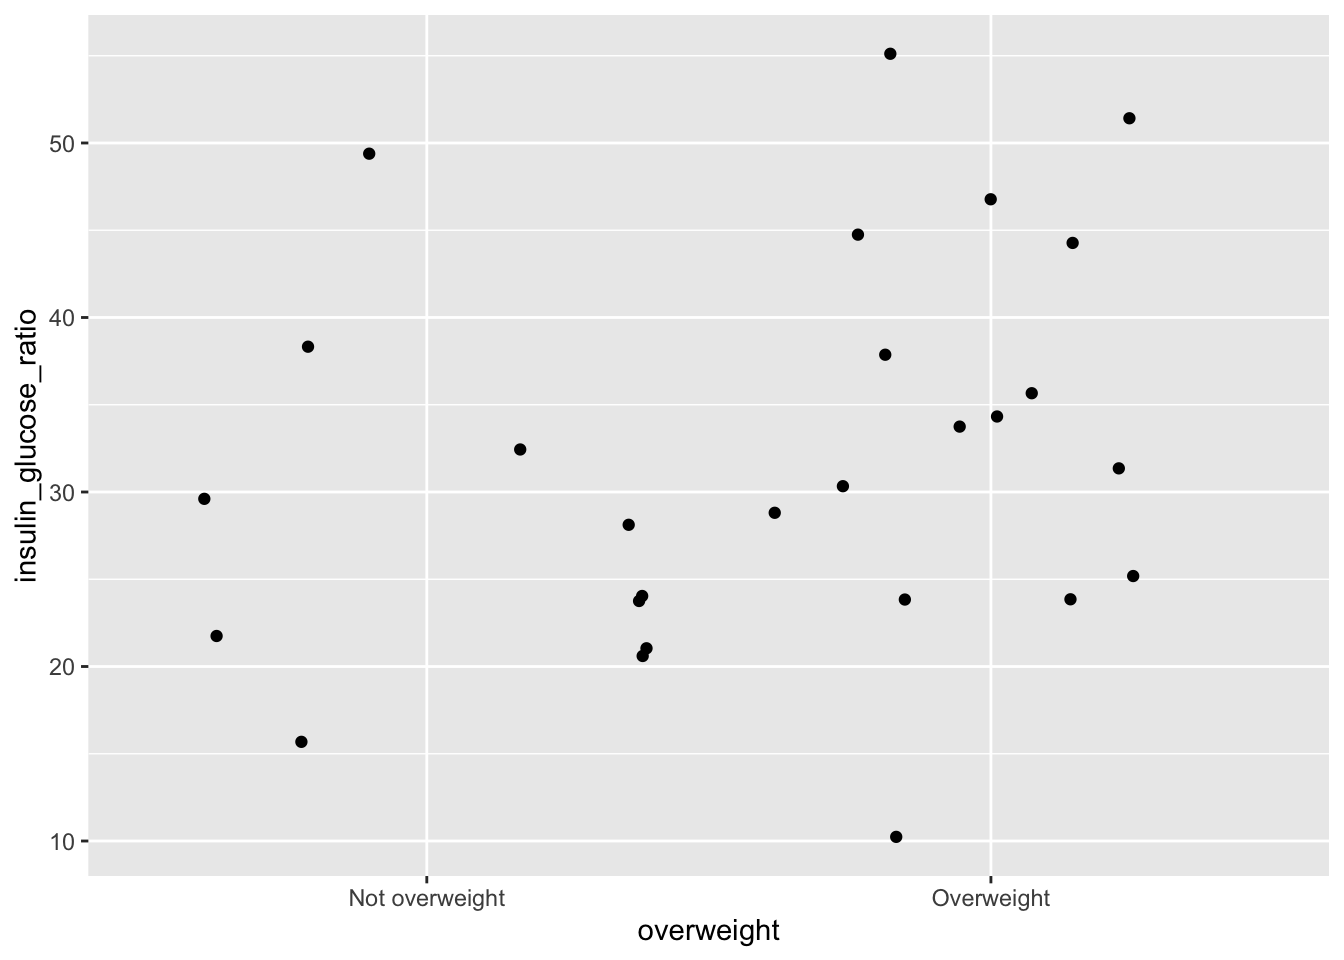
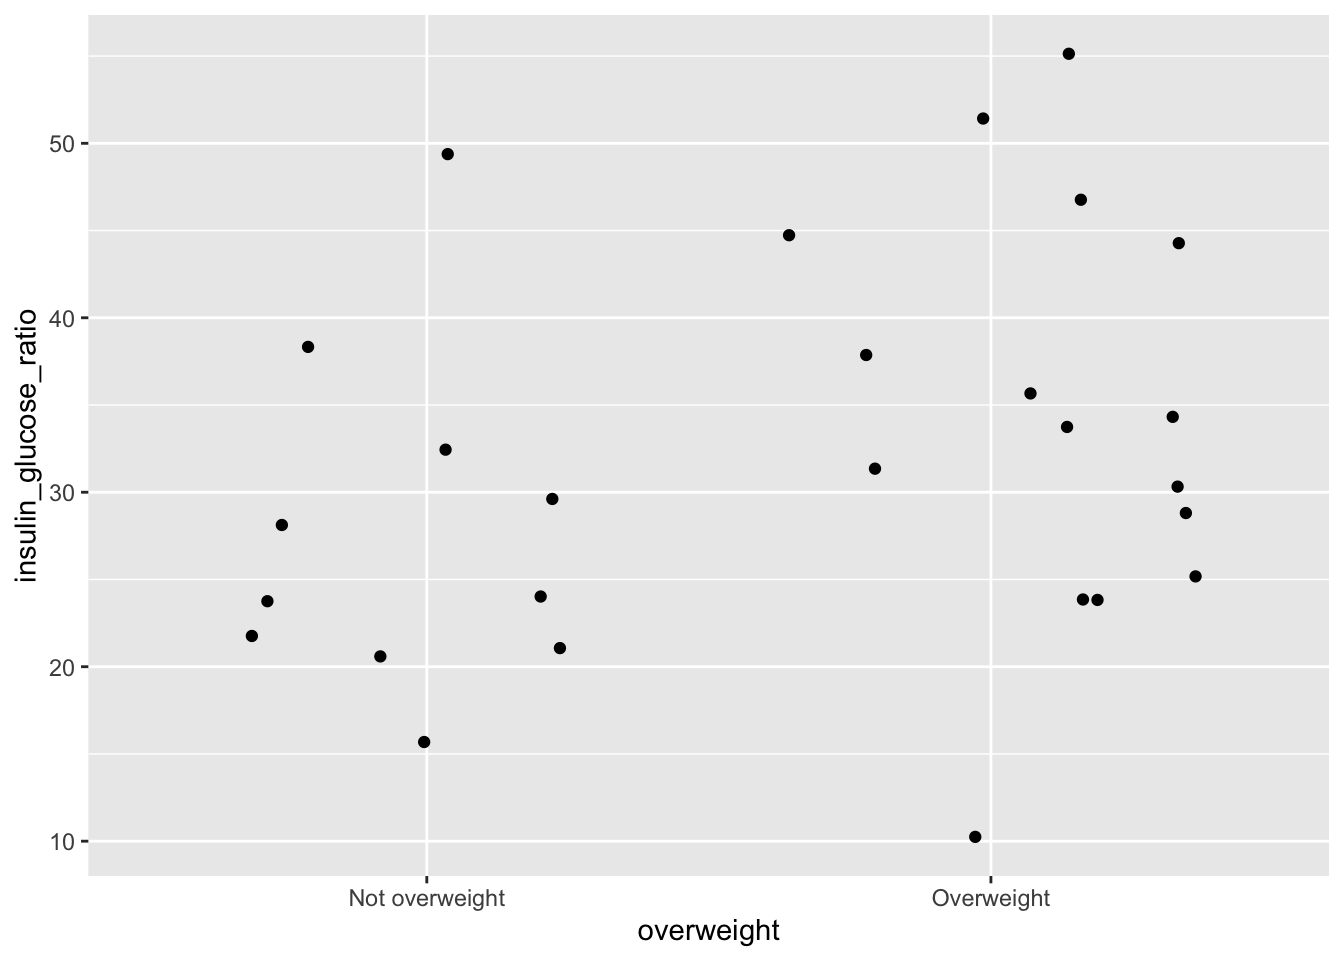
Adding multidimensional plots

diff --git a/docs/Learning.html b/docs/Learning.html
@@ -899,6 +899,64 @@ Figure&nbsp;4: BMI and area under the curve
 </div>
 </div>
 </section>
+<section id="multidimesional-plots" class="level2">
+<h2 class="anchored" data-anchor-id="multidimesional-plots">Multidimesional plots</h2>
+<div class="sourceCode cell-code" id="cb56"><pre class="sourceCode r code-with-copy"><code class="sourceCode r"><span id="cb56-1"><a href="#cb56-1" aria-hidden="true" tabindex="-1"></a>post_meal_data <span class="sc">%&gt;%</span></span>
+<span id="cb56-2"><a href="#cb56-2" aria-hidden="true" tabindex="-1"></a>  <span class="fu">mutate</span>(</span>
+<span id="cb56-3"><a href="#cb56-3" aria-hidden="true" tabindex="-1"></a>    <span class="at">percent_body_fat =</span> (Fat.mass.DXA <span class="sc">/</span> Weight) <span class="sc">*</span> <span class="dv">100</span>,</span>
+<span id="cb56-4"><a href="#cb56-4" aria-hidden="true" tabindex="-1"></a>    <span class="at">young =</span> <span class="fu">if_else</span>(Age <span class="sc">&lt;</span> <span class="dv">40</span>, <span class="st">"Young"</span>, <span class="st">"Old"</span>)</span>
+<span id="cb56-5"><a href="#cb56-5" aria-hidden="true" tabindex="-1"></a>  ) <span class="sc">%&gt;%</span></span>
+<span id="cb56-6"><a href="#cb56-6" aria-hidden="true" tabindex="-1"></a>  <span class="fu">ggplot</span>(<span class="fu">aes</span>(<span class="at">x =</span> Group, <span class="at">y =</span> percent_body_fat, <span class="at">colour =</span> young)) <span class="sc">+</span></span>
+<span id="cb56-7"><a href="#cb56-7" aria-hidden="true" tabindex="-1"></a>  <span class="fu">geom_jitter</span>(<span class="at">width =</span> <span class="fl">0.2</span>)</span>
+<span id="cb56-8"><a href="#cb56-8" aria-hidden="true" tabindex="-1"></a></span>
+<span id="cb56-9"><a href="#cb56-9" aria-hidden="true" tabindex="-1"></a>post_meal_data <span class="sc">%&gt;%</span></span>
+<span id="cb56-10"><a href="#cb56-10" aria-hidden="true" tabindex="-1"></a>  <span class="fu">mutate</span>(</span>
+<span id="cb56-11"><a href="#cb56-11" aria-hidden="true" tabindex="-1"></a>    <span class="at">insulin_glucose_ratio =</span> (auc_ins <span class="sc">/</span> auc_pg),</span>
+<span id="cb56-12"><a href="#cb56-12" aria-hidden="true" tabindex="-1"></a>    <span class="at">insulin_insensitive =</span> <span class="fu">if_else</span>(insulin_glucose_ratio <span class="sc">&gt;</span> <span class="fu">mean</span>(insulin_glucose_ratio), <span class="st">"Insensitive"</span>, <span class="st">"Sensitive"</span>)</span>
+<span id="cb56-13"><a href="#cb56-13" aria-hidden="true" tabindex="-1"></a>  ) <span class="sc">%&gt;%</span></span>
+<span id="cb56-14"><a href="#cb56-14" aria-hidden="true" tabindex="-1"></a>  <span class="fu">ggplot</span>(<span class="fu">aes</span>(<span class="at">x =</span> BMI, <span class="at">y =</span> Bone.mineral.DXA, <span class="at">colour =</span> insulin_insensitive)) <span class="sc">+</span></span>
+<span id="cb56-15"><a href="#cb56-15" aria-hidden="true" tabindex="-1"></a>  <span class="fu">geom_point</span>() <span class="sc">+</span></span>
+<span id="cb56-16"><a href="#cb56-16" aria-hidden="true" tabindex="-1"></a>  <span class="fu">geom_smooth</span>() <span class="sc">+</span></span>
+<span id="cb56-17"><a href="#cb56-17" aria-hidden="true" tabindex="-1"></a>  <span class="fu">facet_grid</span>(<span class="at">rows =</span> <span class="fu">vars</span>(insulin_insensitive))</span></code><button title="Copy to Clipboard" class="code-copy-button"><i class="bi"></i></button></pre></div>
+<div class="cell-output cell-output-stderr">
+<pre><code>`geom_smooth()` using method = 'loess' and formula = 'y ~ x'</code></pre>
+</div>
+<div id="fig-multidimensional" class="quarto-layout-panel">
+<figure class="quarto-float quarto-float-fig figure">
+<div aria-describedby="fig-multidimensional-caption-0ceaefa1-69ba-4598-a22c-09a6ac19f8ca">
+<div class="quarto-layout-row">
+<div class="cell-output-display quarto-layout-cell-subref quarto-layout-cell" data-ref-parent="fig-multidimensional" style="flex-basis: 50.0%;justify-content: flex-start;">
+<div id="fig-multidimensional-1" class="quarto-float quarto-figure quarto-figure-center anchored">
+<figure class="quarto-float quarto-subfloat-fig figure">
+<div aria-describedby="fig-multidimensional-1-caption-0ceaefa1-69ba-4598-a22c-09a6ac19f8ca">
+<img src="Learning_files/figure-html/fig-multidimensional-1.png" class="img-fluid figure-img" data-ref-parent="fig-multidimensional" width="672">
+</div>
+<figcaption class="quarto-float-caption-bottom quarto-subfloat-caption quarto-subfloat-fig" id="fig-multidimensional-1-caption-0ceaefa1-69ba-4598-a22c-09a6ac19f8ca">
+(a) Distribution of percent body fat by group and age category.
+</figcaption>
+</figure>
+</div>
+</div>
+<div class="cell-output-display quarto-layout-cell-subref quarto-layout-cell" data-ref-parent="fig-multidimensional" style="flex-basis: 50.0%;justify-content: flex-start;">
+<div id="fig-multidimensional-2" class="quarto-float quarto-figure quarto-figure-center anchored">
+<figure class="quarto-float quarto-subfloat-fig figure">
+<div aria-describedby="fig-multidimensional-2-caption-0ceaefa1-69ba-4598-a22c-09a6ac19f8ca">
+<img src="Learning_files/figure-html/fig-multidimensional-2.png" class="img-fluid figure-img" data-ref-parent="fig-multidimensional" width="672">
+</div>
+<figcaption class="quarto-float-caption-bottom quarto-subfloat-caption quarto-subfloat-fig" id="fig-multidimensional-2-caption-0ceaefa1-69ba-4598-a22c-09a6ac19f8ca">
+(b) Relationship between BMI and bone mineral density, split by insulin sensitivity.
+</figcaption>
+</figure>
+</div>
+</div>
+</div>
+</div>
+<figcaption class="quarto-float-caption-bottom quarto-float-caption quarto-float-fig" id="fig-multidimensional-caption-0ceaefa1-69ba-4598-a22c-09a6ac19f8ca">
+Figure&nbsp;5: Two, multi-dimensional plots of our data.
+</figcaption>
+</figure>
+</div>
+</section>
 
 </main>
 <!-- /main column -->
